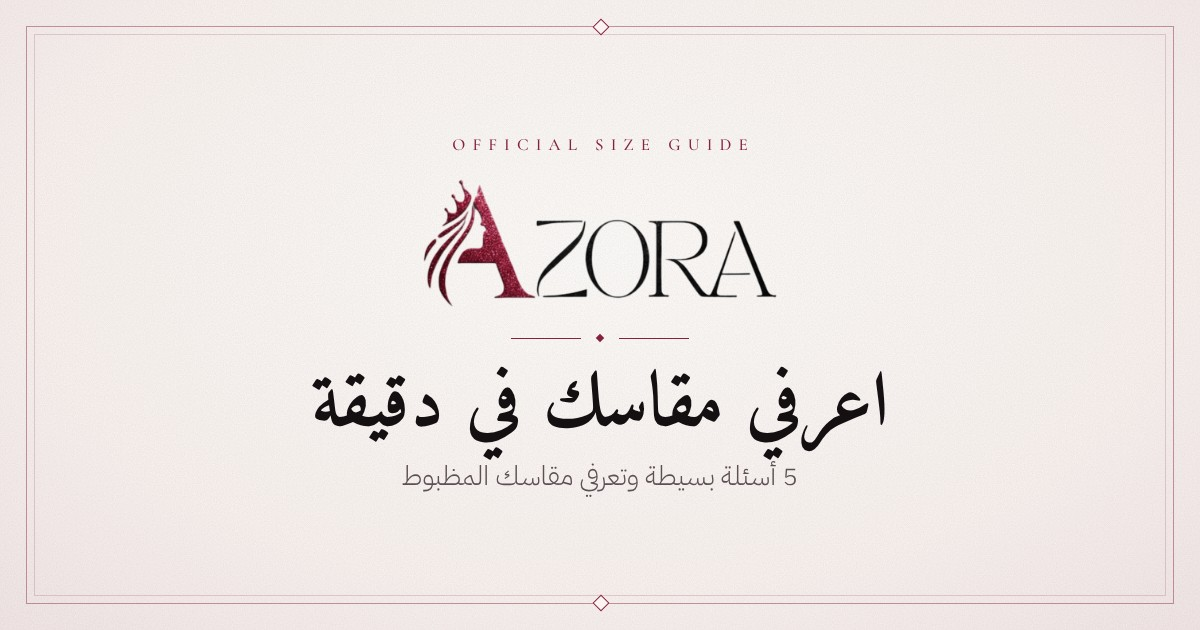
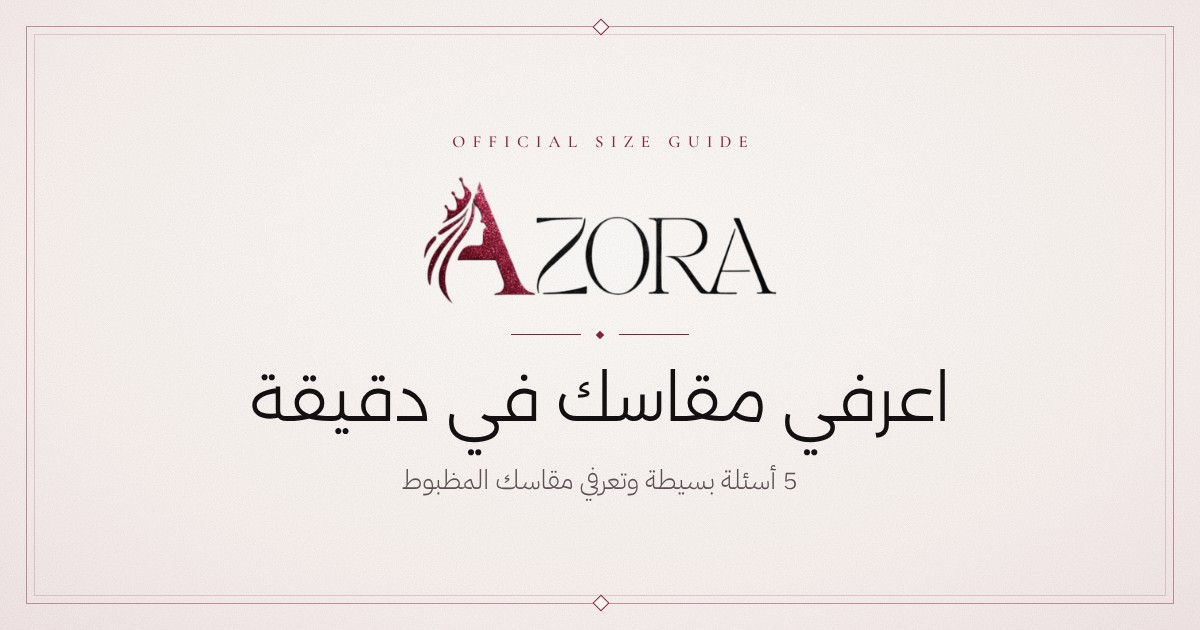
Link card: lighter modern headline font
Claude-Session: https://claude.ai/code/session_01Np5cGEYD3wXAg8bjutYuTe

diff --git a/index.html b/index.html
@@ -15,8 +15,8 @@
 <meta property="og:url" content="https://size.azoraofficial.com/">
 <meta property="og:title" content="أزورا | اعرفي مقاسك">
 <meta property="og:description" content="جاوبي على 5 أسئلة بسيطة وتعرفي مقاسك المظبوط في أي قطعة من أزورا.">
-<meta property="og:image" content="https://size.azoraofficial.com/og.jpg?v=3">
-<meta property="og:image:secure_url" content="https://size.azoraofficial.com/og.jpg?v=3">
+<meta property="og:image" content="https://size.azoraofficial.com/og.jpg?v=4">
+<meta property="og:image:secure_url" content="https://size.azoraofficial.com/og.jpg?v=4">
 <meta property="og:image:type" content="image/jpeg">
 <meta property="og:image:width" content="1200">
 <meta property="og:image:height" content="630">
@@ -24,7 +24,7 @@
 <meta name="twitter:card" content="summary_large_image">
 <meta name="twitter:title" content="أزورا | اعرفي مقاسك">
 <meta name="twitter:description" content="جاوبي على 5 أسئلة بسيطة وتعرفي مقاسك المظبوط في أي قطعة من أزورا.">
-<meta name="twitter:image" content="https://size.azoraofficial.com/og.jpg?v=3">
+<meta name="twitter:image" content="https://size.azoraofficial.com/og.jpg?v=4">
 <link rel="preconnect" href="https://fonts.googleapis.com">
 <link rel="stylesheet" href="https://fonts.googleapis.com/css2?family=IBM+Plex+Sans+Arabic:wght@300;400;500;600&display=swap">
 <style>
